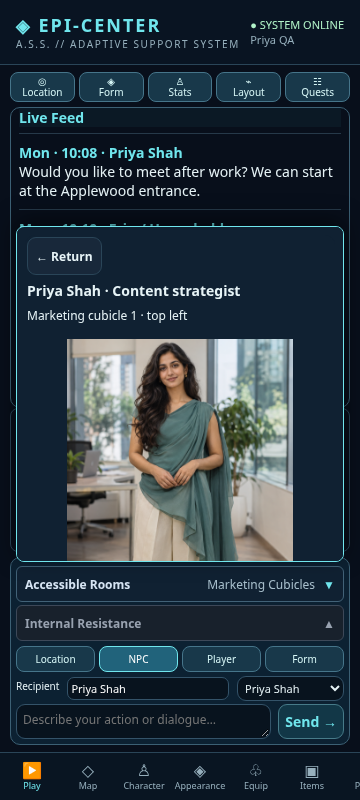
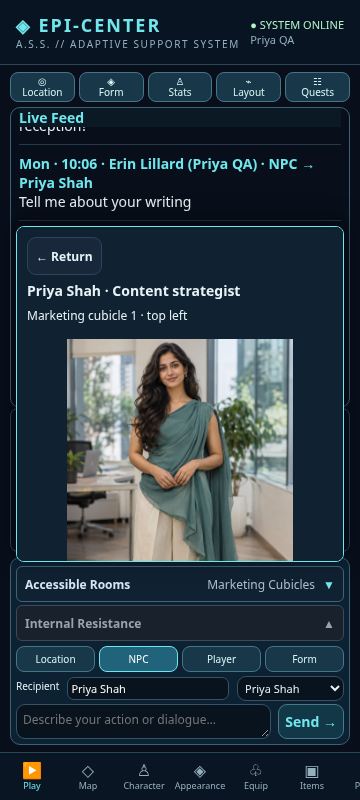
Record live v1.0.100 advantage verification and completion handoff

Changed region(s): [[0.0306, 0.1562, 0.9167, 0.2812], [0.5806, 0.25, 0.6111, 0.2812]]

diff --git a/README.md b/README.md
@@ -1,3 +1,13 @@
+## v1.0.100 — universal advantage live; CP060 implementation finished
+
+**[Play v1.0.100](https://uderiel.github.io/Epi-Center/rebuild/title-screen/?v=1.0.100)**. Gameplay commit `c3ba13021623b3440de8ed41e481b6eed69b1863` is on main/rebuild. Pages build1377513531 and [Actions run44064157205](https://github.com/Uderiel/Epi-Center/actions/runs/44064157205) succeeded. All8changed deployed runtime files match tested source byte-for-byte. **987 named automated cases plus entity assertions across53suites, syntax/module paths/whitespace,25local and25isolated public-browser groups PASS.** Source/runtime evidence: `docs/releases/v1.0.100-live-verification.json`; actual public control checks: `docs/releases/v1.0.100-live-browser-checks.json`.
+
+Implemented universal advantage=2d20keep higher, disadvantage=2d20keep lower, selected-natural handling, shared combat/internal APIs and visible two-die influence-resistance receipts. Erin's existing sleep/relaxed-home/earned-work contexts use advantage instead of contextual+4/+2; original Willpower and genuine numerical modifiers remain separate. Costs/cooldowns/progression and existing saves are preserved. Public browser verified the actual Erin resistance button, kept die/original modifier, one3Resolvecost,30-minute cooldown/reload persistence and removal of stale home advantage, alongside all three NPC/cubicle checks. Public tests used fresh synthetic saves, AI off; cloud Chromium certificate-trust workaround was needed, while independent source-byte requests used the validating HTTP client. Native Android, paid-model quality and owner acceptance remain UNTESTED.
+
+All relevant rules/status/handoff/plan/changelog/README and Erin compatibility documents updated. **Next owner test:** if your existing Erin is unmastered and eligible, use Internal Resistance in a qualifying home/sleep/work context; check2dice/kept higher, original modifier,3Resolveand30-minute cooldown. Reload and confirm saved receipt/cost. Do not reset a mastered form or slot to force this test. [Full current checklist](docs/V1.0.100-OWNER-ACCEPTANCE.md). Report PASS/FAIL/UNTESTED with the displayed version and exact receipt.
+
+**Still design only:** Priya's cursed flats lifecycle, Item-binding/Binding Strength resolution details, jogging runtime, retrieval, worn/unworn recovery and truly-alone release. Their eventual advantage/disadvantage will call this implemented universal helper. No flats encounter or new escape claim; cat/collar remains deferred. Earlier publication-pending CP060 notes below are superseded by this evidence.
+
 ## CP060 / v1.0.100 — universal two-d20 advantage implemented
 
 Owner approved universal d20 advantage/disadvantage: advantage rolls2d20and keeps the higher natural die; disadvantage keeps the lower. It is not a flat modifier. Normal rolls still use1d20; original attributes and genuine numerical modifiers are added after selecting the die. Existing natural1/natural20and opposed tie rules inspect the selected die. Future explicitly advantaged/disadvantaged d20rolls use the same shared helper.
@@ -915,6 +925,7 @@ Epi-Center multiplayer RPG prototype.
 
 | Version | Play / preview | Repository source | Status |
 |---|---|---|---|
+| **v1.0.100 — universal advantage / Erin resistance** | **[Play v1.0.100](https://uderiel.github.io/Epi-Center/rebuild/title-screen/?v=1.0.100)** | [Owner checklist](docs/V1.0.100-OWNER-ACCEPTANCE.md) | Published/live verified; 987 automated cases + entity assertions; 25public-browser groups PASS; owner acceptance pending |
 | **v1.0.99 — individual cubicle correction** | **[Play v1.0.99](https://uderiel.github.io/Epi-Center/rebuild/title-screen/?v=1.0.99)** | [Owner checklist](docs/V1.0.99-OWNER-ACCEPTANCE.md) | Published/live verified; 973 automated cases + entity assertions; 21 public-browser groups PASS; owner retest pending |
 | **v1.0.98 — Priya NPC / three-character retest** | **[Play v1.0.98](https://uderiel.github.io/Epi-Center/rebuild/title-screen/?v=1.0.98)** | [Owner checklist](docs/V1.0.98-OWNER-ACCEPTANCE.md) | Published and live verified; 969 automated cases + entity assertions; 18 public browser groups PASS; owner/model acceptance pending |
 | **v1.0.86 — third-floor rooms and equipment work** | **[Open v1.0.86](https://uderiel.github.io/Epi-Center/rebuild/title-screen/?v=1.0.86)** | [Floor scope](docs/THIRD-FLOOR-WORKPLACE-EXPANSION.md) | 775 automated cases PASS; publication/browser/owner acceptance tracked separately |

diff --git a/CHANGELOG.md b/CHANGELOG.md
@@ -1,3 +1,13 @@
+## v1.0.100 — universal advantage live; CP060 implementation finished
+
+**[Play v1.0.100](https://uderiel.github.io/Epi-Center/rebuild/title-screen/?v=1.0.100)**. Gameplay commit `c3ba13021623b3440de8ed41e481b6eed69b1863` is on main/rebuild. Pages build1377513531 and [Actions run44064157205](https://github.com/Uderiel/Epi-Center/actions/runs/44064157205) succeeded. All8changed deployed runtime files match tested source byte-for-byte. **987 named automated cases plus entity assertions across53suites, syntax/module paths/whitespace,25local and25isolated public-browser groups PASS.** Source/runtime evidence: `docs/releases/v1.0.100-live-verification.json`; actual public control checks: `docs/releases/v1.0.100-live-browser-checks.json`.
+
+Implemented universal advantage=2d20keep higher, disadvantage=2d20keep lower, selected-natural handling, shared combat/internal APIs and visible two-die influence-resistance receipts. Erin's existing sleep/relaxed-home/earned-work contexts use advantage instead of contextual+4/+2; original Willpower and genuine numerical modifiers remain separate. Costs/cooldowns/progression and existing saves are preserved. Public browser verified the actual Erin resistance button, kept die/original modifier, one3Resolvecost,30-minute cooldown/reload persistence and removal of stale home advantage, alongside all three NPC/cubicle checks. Public tests used fresh synthetic saves, AI off; cloud Chromium certificate-trust workaround was needed, while independent source-byte requests used the validating HTTP client. Native Android, paid-model quality and owner acceptance remain UNTESTED.
+
+All relevant rules/status/handoff/plan/changelog/README and Erin compatibility documents updated. **Next owner test:** if your existing Erin is unmastered and eligible, use Internal Resistance in a qualifying home/sleep/work context; check2dice/kept higher, original modifier,3Resolveand30-minute cooldown. Reload and confirm saved receipt/cost. Do not reset a mastered form or slot to force this test. [Full current checklist](docs/V1.0.100-OWNER-ACCEPTANCE.md). Report PASS/FAIL/UNTESTED with the displayed version and exact receipt.
+
+**Still design only:** Priya's cursed flats lifecycle, Item-binding/Binding Strength resolution details, jogging runtime, retrieval, worn/unworn recovery and truly-alone release. Their eventual advantage/disadvantage will call this implemented universal helper. No flats encounter or new escape claim; cat/collar remains deferred. Earlier publication-pending CP060 notes below are superseded by this evidence.
+
 ## CP060 / v1.0.100 — universal two-d20 advantage implemented
 
 Owner approved universal d20 advantage/disadvantage: advantage rolls2d20and keeps the higher natural die; disadvantage keeps the lower. It is not a flat modifier. Normal rolls still use1d20; original attributes and genuine numerical modifiers are added after selecting the die. Existing natural1/natural20and opposed tie rules inspect the selected die. Future explicitly advantaged/disadvantaged d20rolls use the same shared helper.

diff --git a/docs/BUILD-PROGRESS-AND-TEST-HANDOFF.md b/docs/BUILD-PROGRESS-AND-TEST-HANDOFF.md
@@ -1,3 +1,13 @@
+## v1.0.100 — universal advantage live; CP060 implementation finished
+
+**[Play v1.0.100](https://uderiel.github.io/Epi-Center/rebuild/title-screen/?v=1.0.100)**. Gameplay commit `c3ba13021623b3440de8ed41e481b6eed69b1863` is on main/rebuild. Pages build1377513531 and [Actions run44064157205](https://github.com/Uderiel/Epi-Center/actions/runs/44064157205) succeeded. All8changed deployed runtime files match tested source byte-for-byte. **987 named automated cases plus entity assertions across53suites, syntax/module paths/whitespace,25local and25isolated public-browser groups PASS.** Source/runtime evidence: `docs/releases/v1.0.100-live-verification.json`; actual public control checks: `docs/releases/v1.0.100-live-browser-checks.json`.
+
+Implemented universal advantage=2d20keep higher, disadvantage=2d20keep lower, selected-natural handling, shared combat/internal APIs and visible two-die influence-resistance receipts. Erin's existing sleep/relaxed-home/earned-work contexts use advantage instead of contextual+4/+2; original Willpower and genuine numerical modifiers remain separate. Costs/cooldowns/progression and existing saves are preserved. Public browser verified the actual Erin resistance button, kept die/original modifier, one3Resolvecost,30-minute cooldown/reload persistence and removal of stale home advantage, alongside all three NPC/cubicle checks. Public tests used fresh synthetic saves, AI off; cloud Chromium certificate-trust workaround was needed, while independent source-byte requests used the validating HTTP client. Native Android, paid-model quality and owner acceptance remain UNTESTED.
+
+All relevant rules/status/handoff/plan/changelog/README and Erin compatibility documents updated. **Next owner test:** if your existing Erin is unmastered and eligible, use Internal Resistance in a qualifying home/sleep/work context; check2dice/kept higher, original modifier,3Resolveand30-minute cooldown. Reload and confirm saved receipt/cost. Do not reset a mastered form or slot to force this test. [Full current checklist](V1.0.100-OWNER-ACCEPTANCE.md). Report PASS/FAIL/UNTESTED with the displayed version and exact receipt.
+
+**Still design only:** Priya's cursed flats lifecycle, Item-binding/Binding Strength resolution details, jogging runtime, retrieval, worn/unworn recovery and truly-alone release. Their eventual advantage/disadvantage will call this implemented universal helper. No flats encounter or new escape claim; cat/collar remains deferred. Earlier publication-pending CP060 notes below are superseded by this evidence.
+
 ## CP060 / v1.0.100 — universal two-d20 advantage implemented
 
 Owner approved universal d20 advantage/disadvantage: advantage rolls2d20and keeps the higher natural die; disadvantage keeps the lower. It is not a flat modifier. Normal rolls still use1d20; original attributes and genuine numerical modifiers are added after selecting the die. Existing natural1/natural20and opposed tie rules inspect the selected die. Future explicitly advantaged/disadvantaged d20rolls use the same shared helper.

diff --git a/docs/CURRENT-STATUS.md b/docs/CURRENT-STATUS.md
@@ -1,3 +1,13 @@
+## v1.0.100 — universal advantage live; CP060 implementation finished
+
+**[Play v1.0.100](https://uderiel.github.io/Epi-Center/rebuild/title-screen/?v=1.0.100)**. Gameplay commit `c3ba13021623b3440de8ed41e481b6eed69b1863` is on main/rebuild. Pages build1377513531 and [Actions run44064157205](https://github.com/Uderiel/Epi-Center/actions/runs/44064157205) succeeded. All8changed deployed runtime files match tested source byte-for-byte. **987 named automated cases plus entity assertions across53suites, syntax/module paths/whitespace,25local and25isolated public-browser groups PASS.** Source/runtime evidence: `docs/releases/v1.0.100-live-verification.json`; actual public control checks: `docs/releases/v1.0.100-live-browser-checks.json`.
+
+Implemented universal advantage=2d20keep higher, disadvantage=2d20keep lower, selected-natural handling, shared combat/internal APIs and visible two-die influence-resistance receipts. Erin's existing sleep/relaxed-home/earned-work contexts use advantage instead of contextual+4/+2; original Willpower and genuine numerical modifiers remain separate. Costs/cooldowns/progression and existing saves are preserved. Public browser verified the actual Erin resistance button, kept die/original modifier, one3Resolvecost,30-minute cooldown/reload persistence and removal of stale home advantage, alongside all three NPC/cubicle checks. Public tests used fresh synthetic saves, AI off; cloud Chromium certificate-trust workaround was needed, while independent source-byte requests used the validating HTTP client. Native Android, paid-model quality and owner acceptance remain UNTESTED.
+
+All relevant rules/status/handoff/plan/changelog/README and Erin compatibility documents updated. **Next owner test:** if your existing Erin is unmastered and eligible, use Internal Resistance in a qualifying home/sleep/work context; check2dice/kept higher, original modifier,3Resolveand30-minute cooldown. Reload and confirm saved receipt/cost. Do not reset a mastered form or slot to force this test. [Full current checklist](V1.0.100-OWNER-ACCEPTANCE.md). Report PASS/FAIL/UNTESTED with the displayed version and exact receipt.
+
+**Still design only:** Priya's cursed flats lifecycle, Item-binding/Binding Strength resolution details, jogging runtime, retrieval, worn/unworn recovery and truly-alone release. Their eventual advantage/disadvantage will call this implemented universal helper. No flats encounter or new escape claim; cat/collar remains deferred. Earlier publication-pending CP060 notes below are superseded by this evidence.
+
 ## CP060 / v1.0.100 — universal two-d20 advantage implemented
 
 Owner approved universal d20 advantage/disadvantage: advantage rolls2d20and keeps the higher natural die; disadvantage keeps the lower. It is not a flat modifier. Normal rolls still use1d20; original attributes and genuine numerical modifiers are added after selecting the die. Existing natural1/natural20and opposed tie rules inspect the selected die. Future explicitly advantaged/disadvantaged d20rolls use the same shared helper.

diff --git a/docs/DEVELOPMENT-MASTER-PLAN.md b/docs/DEVELOPMENT-MASTER-PLAN.md
@@ -1,3 +1,13 @@
+## v1.0.100 — universal advantage live; CP060 implementation finished
+
+**[Play v1.0.100](https://uderiel.github.io/Epi-Center/rebuild/title-screen/?v=1.0.100)**. Gameplay commit `c3ba13021623b3440de8ed41e481b6eed69b1863` is on main/rebuild. Pages build1377513531 and [Actions run44064157205](https://github.com/Uderiel/Epi-Center/actions/runs/44064157205) succeeded. All8changed deployed runtime files match tested source byte-for-byte. **987 named automated cases plus entity assertions across53suites, syntax/module paths/whitespace,25local and25isolated public-browser groups PASS.** Source/runtime evidence: `docs/releases/v1.0.100-live-verification.json`; actual public control checks: `docs/releases/v1.0.100-live-browser-checks.json`.
+
+Implemented universal advantage=2d20keep higher, disadvantage=2d20keep lower, selected-natural handling, shared combat/internal APIs and visible two-die influence-resistance receipts. Erin's existing sleep/relaxed-home/earned-work contexts use advantage instead of contextual+4/+2; original Willpower and genuine numerical modifiers remain separate. Costs/cooldowns/progression and existing saves are preserved. Public browser verified the actual Erin resistance button, kept die/original modifier, one3Resolvecost,30-minute cooldown/reload persistence and removal of stale home advantage, alongside all three NPC/cubicle checks. Public tests used fresh synthetic saves, AI off; cloud Chromium certificate-trust workaround was needed, while independent source-byte requests used the validating HTTP client. Native Android, paid-model quality and owner acceptance remain UNTESTED.
+
+All relevant rules/status/handoff/plan/changelog/README and Erin compatibility documents updated. **Next owner test:** if your existing Erin is unmastered and eligible, use Internal Resistance in a qualifying home/sleep/work context; check2dice/kept higher, original modifier,3Resolveand30-minute cooldown. Reload and confirm saved receipt/cost. Do not reset a mastered form or slot to force this test. [Full current checklist](V1.0.100-OWNER-ACCEPTANCE.md). Report PASS/FAIL/UNTESTED with the displayed version and exact receipt.
+
+**Still design only:** Priya's cursed flats lifecycle, Item-binding/Binding Strength resolution details, jogging runtime, retrieval, worn/unworn recovery and truly-alone release. Their eventual advantage/disadvantage will call this implemented universal helper. No flats encounter or new escape claim; cat/collar remains deferred. Earlier publication-pending CP060 notes below are superseded by this evidence.
+
 ## CP060 / v1.0.100 — universal two-d20 advantage implemented
 
 Owner approved universal d20 advantage/disadvantage: advantage rolls2d20and keeps the higher natural die; disadvantage keeps the lower. It is not a flat modifier. Normal rolls still use1d20; original attributes and genuine numerical modifiers are added after selecting the die. Existing natural1/natural20and opposed tie rules inspect the selected die. Future explicitly advantaged/disadvantaged d20rolls use the same shared helper.

diff --git a/docs/OPEN-TASKS-AND-DECISIONS.md b/docs/OPEN-TASKS-AND-DECISIONS.md
@@ -1,3 +1,13 @@
+## v1.0.100 — universal advantage live; CP060 implementation finished
+
+**[Play v1.0.100](https://uderiel.github.io/Epi-Center/rebuild/title-screen/?v=1.0.100)**. Gameplay commit `c3ba13021623b3440de8ed41e481b6eed69b1863` is on main/rebuild. Pages build1377513531 and [Actions run44064157205](https://github.com/Uderiel/Epi-Center/actions/runs/44064157205) succeeded. All8changed deployed runtime files match tested source byte-for-byte. **987 named automated cases plus entity assertions across53suites, syntax/module paths/whitespace,25local and25isolated public-browser groups PASS.** Source/runtime evidence: `docs/releases/v1.0.100-live-verification.json`; actual public control checks: `docs/releases/v1.0.100-live-browser-checks.json`.
+
+Implemented universal advantage=2d20keep higher, disadvantage=2d20keep lower, selected-natural handling, shared combat/internal APIs and visible two-die influence-resistance receipts. Erin's existing sleep/relaxed-home/earned-work contexts use advantage instead of contextual+4/+2; original Willpower and genuine numerical modifiers remain separate. Costs/cooldowns/progression and existing saves are preserved. Public browser verified the actual Erin resistance button, kept die/original modifier, one3Resolvecost,30-minute cooldown/reload persistence and removal of stale home advantage, alongside all three NPC/cubicle checks. Public tests used fresh synthetic saves, AI off; cloud Chromium certificate-trust workaround was needed, while independent source-byte requests used the validating HTTP client. Native Android, paid-model quality and owner acceptance remain UNTESTED.
+
+All relevant rules/status/handoff/plan/changelog/README and Erin compatibility documents updated. **Next owner test:** if your existing Erin is unmastered and eligible, use Internal Resistance in a qualifying home/sleep/work context; check2dice/kept higher, original modifier,3Resolveand30-minute cooldown. Reload and confirm saved receipt/cost. Do not reset a mastered form or slot to force this test. [Full current checklist](V1.0.100-OWNER-ACCEPTANCE.md). Report PASS/FAIL/UNTESTED with the displayed version and exact receipt.
+
+**Still design only:** Priya's cursed flats lifecycle, Item-binding/Binding Strength resolution details, jogging runtime, retrieval, worn/unworn recovery and truly-alone release. Their eventual advantage/disadvantage will call this implemented universal helper. No flats encounter or new escape claim; cat/collar remains deferred. Earlier publication-pending CP060 notes below are superseded by this evidence.
+
 ## CP060 / v1.0.100 — universal two-d20 advantage implemented
 
 Owner approved universal d20 advantage/disadvantage: advantage rolls2d20and keeps the higher natural die; disadvantage keeps the lower. It is not a flat modifier. Normal rolls still use1d20; original attributes and genuine numerical modifiers are added after selecting the die. Existing natural1/natural20and opposed tie rules inspect the selected die. Future explicitly advantaged/disadvantaged d20rolls use the same shared helper.

diff --git a/docs/V1.0.100-OWNER-ACCEPTANCE.md b/docs/V1.0.100-OWNER-ACCEPTANCE.md
@@ -1,6 +1,6 @@
 # v1.0.100 — universal advantage and Erin resistance test
 
-Current playable entry after verified publication: https://uderiel.github.io/Epi-Center/rebuild/title-screen/?v=1.0.100 . Continue an existing save; do not reset slots. Confirm title/Hub v1.0.100. No Worker update required.
+Verified live playable entry: https://uderiel.github.io/Epi-Center/rebuild/title-screen/?v=1.0.100 . Continue an existing save; do not reset slots. Confirm title/Hub v1.0.100. No Worker update required.
 
 1. With unmastered Erin and an available resistance action, relax at home in the living room or bedroom with low stress/no urgent need or active bodily routine. Alternatively, actual sleep or qualifying recent professional work enables its existing context. Expected: Internal Resistance says Advantage,2d20keep higher; no contextual+4/+2is added. Mastered Erin appropriately has no unmastered resistance action—do not reset mastery just to test.
 2. Use Resist once when ready. Expected: receipt contains both d20results and the kept higher die, plus original Willpower, against the opposing form's die/Reasoning. Exactly3Resolveis charged and the next internal action is30game minutes later. Existing natural-roll, influence and mastery rules remain.

diff --git a/docs/COMBAT-FOUNDATIONS-GUIDE.md b/docs/COMBAT-FOUNDATIONS-GUIDE.md
@@ -1,3 +1,5 @@
+> CP060 universal advantage/disadvantage helper and Erin integration are implemented/tested/live in v1.0.100. Flats-specific progression/lifecycle and jogging remain design only. See CURRENT-STATUS.md for publication evidence and the exact next action.
+
 ## CP060 / v1.0.100 — universal two-d20 advantage implemented
 
 Owner approved universal d20 advantage/disadvantage: advantage rolls2d20and keeps the higher natural die; disadvantage keeps the lower. It is not a flat modifier. Normal rolls still use1d20; original attributes and genuine numerical modifiers are added after selecting the die. Existing natural1/natural20and opposed tie rules inspect the selected die. Future explicitly advantaged/disadvantaged d20rolls use the same shared helper.

diff --git a/docs/PRIYA-FLATS-IMPLEMENTATION-PLAN.md b/docs/PRIYA-FLATS-IMPLEMENTATION-PLAN.md
@@ -1,3 +1,5 @@
+> CP060 universal advantage/disadvantage helper and Erin integration are implemented/tested/live in v1.0.100. Flats-specific progression/lifecycle and jogging remain design only. See CURRENT-STATUS.md for publication evidence and the exact next action.
+
 ## CP060 / v1.0.100 — universal two-d20 advantage implemented
 
 Owner approved universal d20 advantage/disadvantage: advantage rolls2d20and keeps the higher natural die; disadvantage keeps the lower. It is not a flat modifier. Normal rolls still use1d20; original attributes and genuine numerical modifiers are added after selecting the die. Existing natural1/natural20and opposed tie rules inspect the selected die. Future explicitly advantaged/disadvantaged d20rolls use the same shared helper.
